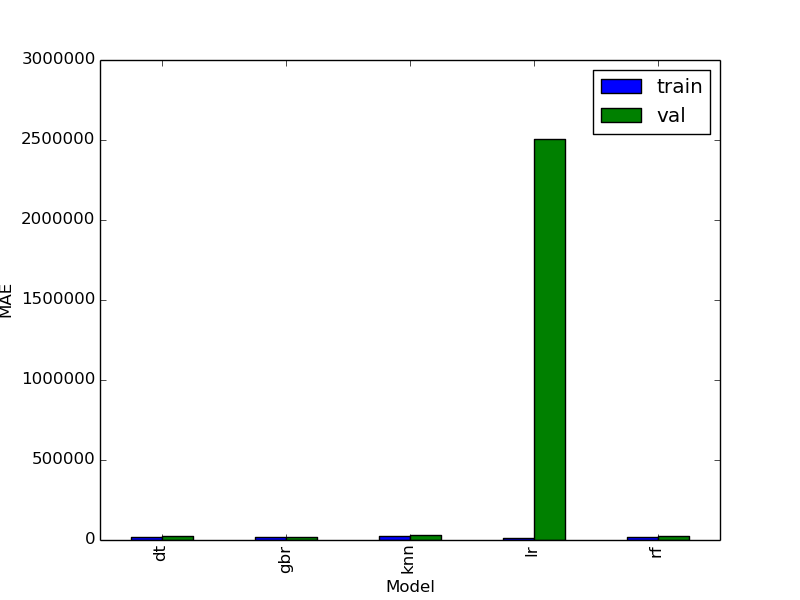
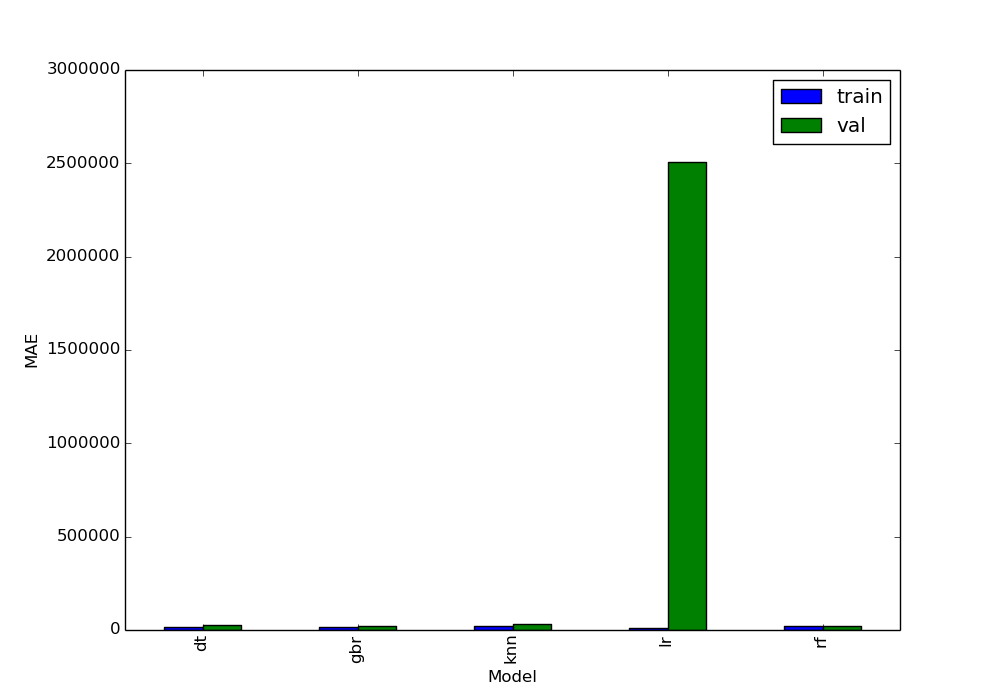
correcting ploting details

diff --git a/supervised_learning/0x05-ensemble_modeling/6-stacking_ensemble_recap.py b/supervised_learning/0x05-ensemble_modeling/6-stacking_ensemble_recap.py
@@ -172,8 +172,7 @@ mae_scores = pd.concat([pd.Series(train_mae_values, name='train'),
                 axis=1)
 print(mae_scores)
 
-plt.figure(figsize=(10, 7))
-mae_scores.plot(kind='bar')
+mae_scores.plot(kind='bar', figsize=(10, 7))
 plt.ylabel('MAE')
 plt.xlabel('Model')
 plt.savefig('mae_scores.png')
